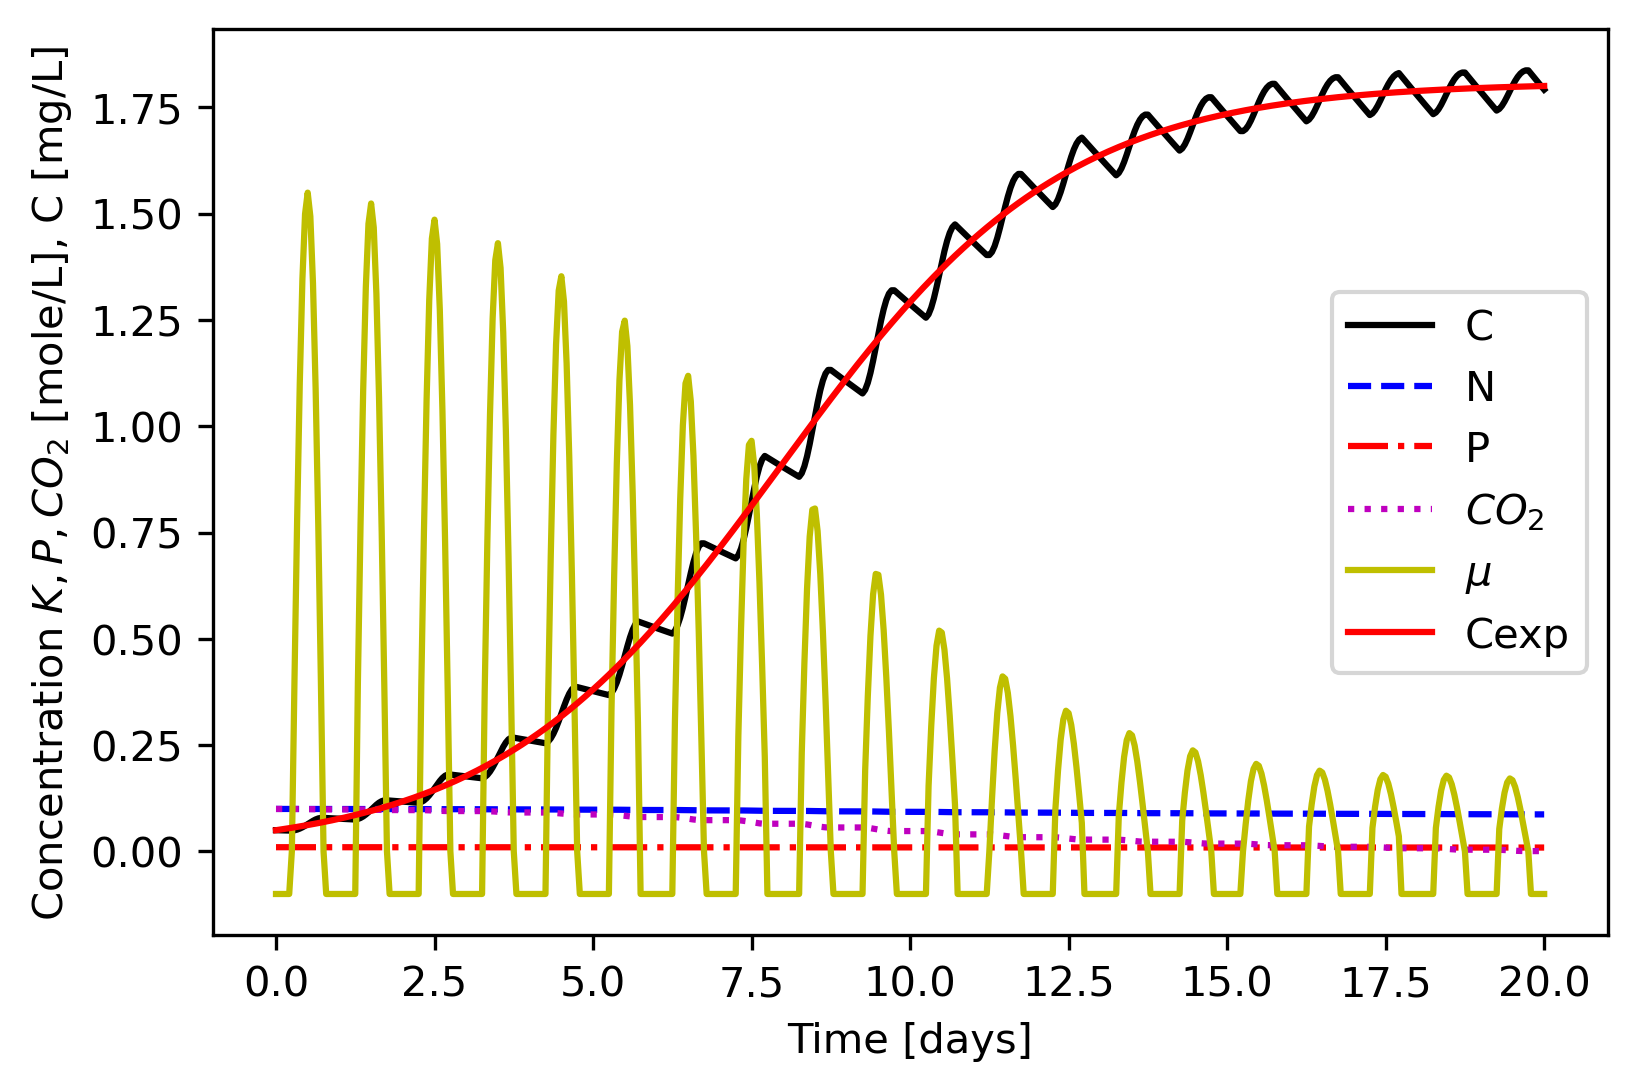
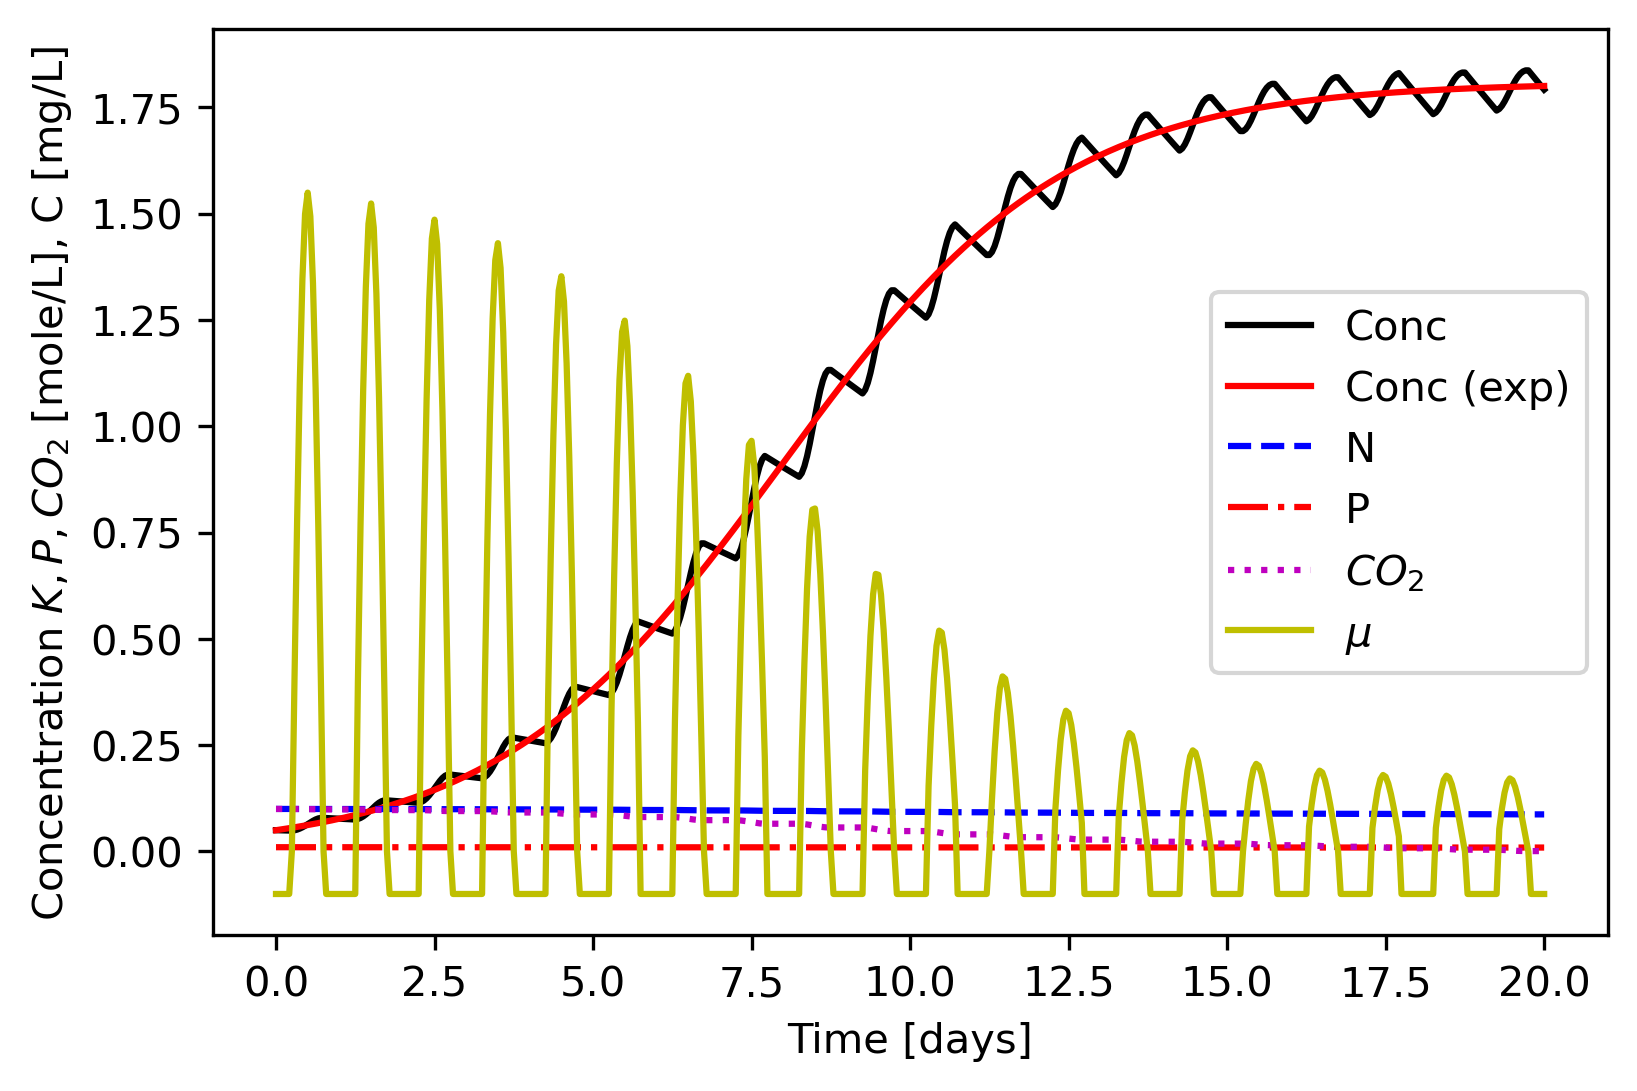
Curve fitting added and other fixes

Changed region(s): [[0.7477, 0.2493, 0.9658, 0.6233], [0.9035, 0.4363, 0.9346, 0.4986]]

diff --git a/p5_algae_model_opt.py b/p5_algae_model_opt.py
@@ -2,14 +2,64 @@
 # -*- coding: utf-8 -*-
 """
 BE523 Biosystems Analysis & Design
-HW10 - Problem 5. Multiple fission algae model
+HW10 - Problem 5. Multiple fission algae model, using optimization
 
-Created on Sat Feb 13 13:46:56 2021
+Created on Sun Feb 14 00:40:51 2021
 @author: eduardo
 """
 import numpy as np
 import pandas as pd
 import matplotlib.pyplot as plt
+from scipy.optimize import minimize
+
+def logistic_model(K, P0, r, t):
+    """
+    Logistic model for population growth
+
+    Parameters
+    ----------
+    K : float
+        carrying capacity.
+    P0 : int
+        initial population.
+    r : float
+        low density growth rate.
+    t : array
+        actual time vector.
+
+    Returns
+    -------
+    array
+        population for each time step.
+
+    """
+    return (K * P0 * np.exp(r*t))/(K + P0 * (np.exp(r*t) - 1))
+    
+def sum_squared_error(x, t, P):
+    """
+    Sum of squared errors
+
+    Parameters
+    ----------
+    x : array
+        array contining  parameters K, P0, and r (in that order).
+    t : array
+        actual time vector.
+    P : array
+        population to compare against.
+
+    Returns
+    -------
+    SSE : float
+        sum of squared errors.
+
+    """
+    assert len(t) == len (P), "Length of t and P are not equal"
+    K, P0, r = x[0], x[1], x[2]  # unzip the parameters
+    Pop = logistic_model(K, P0, r, t)  # calculate population with logistic model (analytical)
+    SS = pow(Pop - P, 2)  # squared errors between analytical and numerical populations
+    SSE = sum(SS)
+    return SSE
 
 kN = 3e-5  # Nitrogen, mole/L
 kP = 1e-5  # Phophorous, mole/L
@@ -64,11 +114,15 @@ for i in range(1, time_steps+1):
         P[i] = P[i-1]
         CO2[i] = CO2[i-1]
 
-# Make predictions uwing the analytical model and numpy array
+# Use 'minimize' to find the coefficients K, P0, r
+x0 = [0.1, 0.1, 0.1]  # initial guess for K, P0, r
+res = minimize(sum_squared_error, x0, args=(time, C))
+K, P0, r = res.x[0], res.x[1], res.x[2]  # get the results
+print('K=', K, 'P0=', P0, 'r=', r)
+
+# Make predictions using the analytical model and numpy array
 # coefficients were obtained from Excel using Solver
-K = 1.80833
-r = 0.44778
-Cexp = (K * C0 * np.exp(r*time))/(K + C0 * (np.exp(r*time) - 1))
+Cexp = logistic_model(K, C0, r, time)
 
 growth_script = pd.DataFrame(columns = ['Time', 'I0', 'mu', 'Conc', 'N', 'P', 'CO2'])
 growth_script['Time'] = time
@@ -80,18 +134,14 @@ growth_script['P'] = P
 growth_script['CO2'] = CO2
 
 plt.figure(0)
-# plt.plot(growth_script['Time'], growth_script['I0'], label='I0')
-plt.plot(growth_script['Time'], growth_script['Conc'], 'k-', label='C')
+plt.plot(growth_script['Time'], growth_script['Conc'], 'k-', label='Conc')
+plt.plot(growth_script['Time'], Cexp, 'r-', label='Conc (exp)')
 plt.plot(growth_script['Time'], growth_script['N'], 'b--', label='N')
 plt.plot(growth_script['Time'], growth_script['P'], 'r-.', label='P')
 plt.plot(growth_script['Time'], growth_script['CO2'], 'm:', label='$CO_2$')
 plt.plot(growth_script['Time'], growth_script['mu'], 'y-', label='$\mu$')
-plt.plot(growth_script['Time'], Cexp, 'r-', label='Cexp')
 plt.legend(loc='best', fancybox=True)
 plt.xlabel('Time [days]')
 plt.ylabel('Concentration $K,P,CO_2$ [mole/L], C [mg/L]')
 plt.savefig('p5_algae_model_%ddays.png' % number_of_days, dpi=300, bbox_inches='tight')
 plt.show()
-
-excel_file = 'output.xlsx'
-growth_script.to_excel(excel_file, sheet_name='python_output', index=False)

diff --git a/p4_logistic_model.py b/p4_logistic_model.py
@@ -28,7 +28,7 @@ for i in range(1, len(t)):
     P[i] = P[i-1] + r * P[i-1] * (1 - P[i-1]/K)*dt
     Pana[i] = (K * P0 * np.exp(r*t[i]))/(K + P0 * (np.exp(r*t[i]) - 1))
 
-# Make predictions uwing the analytical model and numpy array
+# Make predictions using the analytical model and numpy array
 Pexp = (K * P0 * np.exp(r*t))/(K + P0 * (np.exp(r*t) - 1))
 
 plt.plot(t, P, 'bx', t, Pana, 'g+', t, Pexp, 'r-')

diff --git a/p6_logistic_model.py b/p6_logistic_model.py
@@ -27,7 +27,7 @@ for i in range(1, len(t)):
     P[i] = P[i-1] + r * P[i-1] * (1 - P[i-1]/K)*dt
     Pana[i] = (K * P0 * np.exp(r*t[i]))/(K + P0 * (np.exp(r*t[i]) - 1))
 
-# Make predictions uwing the analytical model and numpy array
+# Make predictions using the analytical model and numpy array
 Pexp = (K * P0 * np.exp(r*t))/(K + P0 * (np.exp(r*t) - 1))
 
 plt.plot(t, P, 'bx', t, Pana, 'g+', t, Pexp, 'r-')
